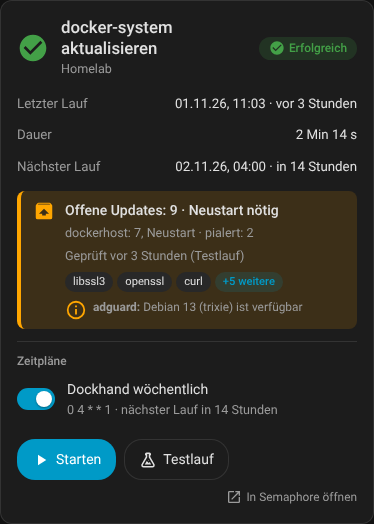
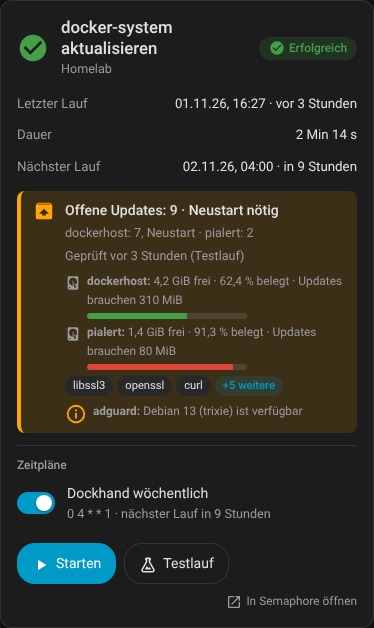
feat: Platte je Host (frei, belegt in Prozent, Bedarf der Updates) in der Template-Karte
Liest disk_free_mib, disk_required_mib und disk_used_percent aus HA_RESULT, zeigt sie je Host mit Balken.
Doku, Tests und Screenshots aktualisiert.

Claude-Session: https://claude.ai/code/session_01RxcXBPCZy8kiUCVNSxwdkB

diff --git a/custom_components/semaphore_ui/frontend/semaphore-ui-card.js b/custom_components/semaphore_ui/frontend/semaphore-ui-card.js
@@ -40,6 +40,9 @@ const TEXTS = {
     checked: "Geprüft",
     reboot_short: "Neustart",
     more_n: "+{n} weitere",
+    disk_free: "frei",
+    disk_used: "belegt",
+    disk_need: "Updates brauchen",
     less: "weniger",
     show_all: "Alle Pakete anzeigen",
     show_less: "Weniger Pakete anzeigen",
@@ -130,6 +133,9 @@ const TEXTS = {
     checked: "Checked",
     reboot_short: "reboot",
     more_n: "+{n} more",
+    disk_free: "free",
+    disk_used: "used",
+    disk_need: "updates need",
     less: "less",
     show_all: "Show all packages",
     show_less: "Show fewer packages",
@@ -330,6 +336,14 @@ const STYLE = `
   .notes { margin-top: 6px; display: grid; gap: 4px; }
   .note { display: flex; gap: 6px; align-items: flex-start; font-size: 0.85em; color: var(--secondary-text-color); overflow-wrap: anywhere; }
   .note ha-icon { --mdc-icon-size: 16px; flex: none; margin-top: 1px; }
+  .disks { margin-top: 6px; display: grid; gap: 4px; }
+  .disk { display: grid; grid-template-columns: 16px minmax(0, 1fr); column-gap: 6px; row-gap: 3px; align-items: start; font-size: 0.85em; color: var(--secondary-text-color); overflow-wrap: anywhere; }
+  .needbox .disk ha-icon { --mdc-icon-size: 16px; margin-top: 1px; color: var(--secondary-text-color); }
+  .disk .dtext { min-width: 0; }
+  .disk .bar { grid-column: 2; width: 100%; max-width: 160px; height: 6px; border-radius: 3px; background: var(--divider-color, #e0e0e0); overflow: hidden; }
+  .disk .bar i { display: block; height: 100%; background: var(--success-color, #43a047); }
+  .disk .bar.warn i { background: var(--warning-color, #ffa600); }
+  .disk .bar.crit i { background: var(--error-color, #db4437); }
   .errbox { margin-top: 12px; padding: 8px 12px; border-radius: 8px; font-size: 0.9em; overflow-wrap: anywhere;
             background: color-mix(in srgb, var(--error-color, #db4437) 12%, transparent); border-left: 4px solid var(--error-color, #db4437); }
   .errbox .meta { color: var(--secondary-text-color); margin-top: 4px; }
@@ -804,6 +818,26 @@ class SemaphoreTemplateCard extends SemaphoreBaseCard {
           .map((n) => `<div class="note"><ha-icon icon="mdi:information-outline"></ha-icon><span>${allHosts.length > 1 && n.host ? `<b>${esc(n.host)}:</b> ` : ""}${esc(n.text)}</span></div>`)
           .join("")}${notes.length > 3 ? `<div class="note"><span>${esc(T.more_n.replace("{n}", notes.length - 3))}</span></div>` : ""}</div>`
       : "";
+    // disk figures of the hosts (root file system), if the playbook reports them
+    const lang = langOf(hass);
+    const num = (n, digits = 1) => new Intl.NumberFormat(hass.locale?.language || lang, { maximumFractionDigits: digits }).format(n);
+    const size = (mib) => (mib >= 1024 ? `${num(mib / 1024)} GiB` : `${num(mib, 0)} MiB`);
+    const disks = allHosts.filter(([, h]) => ["disk_free_mib", "disk_used_percent", "disk_required_mib"].some((k) => typeof h[k] === "number"));
+    const diskHtml = disks.length
+      ? `<div class="disks">${disks
+          .slice(0, 5)
+          .map(([name, h]) => {
+            const parts = [];
+            if (typeof h.disk_free_mib === "number") parts.push(`${size(h.disk_free_mib)} ${T.disk_free}`);
+            if (typeof h.disk_used_percent === "number") parts.push(`${num(h.disk_used_percent)} % ${T.disk_used}`);
+            if (h.disk_required_mib > 0) parts.push(`${T.disk_need} ${size(h.disk_required_mib)}`);
+            const pct = typeof h.disk_used_percent === "number" ? Math.min(100, h.disk_used_percent) : null;
+            const level = pct === null ? "" : pct >= 90 ? "crit" : pct >= 80 ? "warn" : "";
+            const text = `${allHosts.length > 1 ? `${name}: ` : ""}${parts.join(" · ")}`;
+            return `<div class="disk"><ha-icon icon="mdi:harddisk"></ha-icon><span class="dtext">${allHosts.length > 1 ? `<b>${esc(name)}:</b> ` : ""}${esc(parts.join(" · "))}</span>${pct === null ? "" : `<span class="bar ${level}" role="img" aria-label="${esc(text)}"><i style="width:${pct}%"></i></span>`}</div>`;
+          })
+          .join("")}${disks.length > 5 ? `<div class="disk"><span>${esc(T.more_n.replace("{n}", disks.length - 5))}</span></div>` : ""}</div>`
+      : "";
     const names = on && Array.isArray(a.packages) ? a.packages : [];
     const open = !!this._pkgsOpen;
     // all chips are rendered; _fitPackages() folds them into one line and writes "+n more" into the button
@@ -816,7 +850,7 @@ class SemaphoreTemplateCard extends SemaphoreBaseCard {
       : "";
     return `<div class="needbox ${on ? "on" : "off"}" data-action="more-info" data-entity="${entityId}">
       <ha-icon icon="${on ? "mdi:package-up" : "mdi:check-circle-outline"}"></ha-icon>
-      <div class="t"><div class="what">${esc(a.explanation || T.action_n)}</div>${hostLine ? `<div class="meta hostline">${esc(hostLine)}</div>` : ""}${meta.length ? `<div class="meta">${meta.map(esc).join(" · ")}</div>` : ""}${pkgs}${notesHtml}</div>
+      <div class="t"><div class="what">${esc(a.explanation || T.action_n)}</div>${hostLine ? `<div class="meta hostline">${esc(hostLine)}</div>` : ""}${meta.length ? `<div class="meta">${meta.map(esc).join(" · ")}</div>` : ""}${diskHtml}${pkgs}${notesHtml}</div>
     </div>`;
   }
 

diff --git a/tests/browser/check_cards.py b/tests/browser/check_cards.py
@@ -253,8 +253,13 @@ def test_packages_one_line(page: Page) -> None:
     for w in (700, width):
         page.set_viewport_size({"width": w, "height": page.viewport_size["height"]})
         time.sleep(0.8)
-        narrow.append(pkg_state(docker))
-    check("Schmales Fenster: weiterhin eine Zeile, mehr Pakete hinter „+n weitere“", narrow[0]["rows"] == 1 and narrow[0]["overflow"] <= 1 and narrow[0]["visible"] <= narrow[1]["visible"] and (narrow[0]["clipped"] == 0 or narrow[0]["visible"] == 1), narrow)
+        state = pkg_state(docker)
+        state["card_width"] = round(docker.evaluate("el => el.getBoundingClientRect().width"))
+        narrow.append(state)
+    # die Karte kann bei anderer Fensterbreite in einer anderen Rasterspalte landen: verglichen wird die Kartenbreite
+    (a, b) = narrow
+    monotone = (a["card_width"] <= b["card_width"] and a["visible"] <= b["visible"]) or (a["card_width"] >= b["card_width"] and a["visible"] >= b["visible"])
+    check("Schmales Fenster: weiterhin eine Zeile, schmalere Karte zeigt weniger Pakete (Rest hinter „+n weitere“)", a["rows"] == 1 and a["overflow"] <= 1 and monotone and (a["clipped"] == 0 or a["visible"] == 1), narrow)
     check("Fenster wieder breit: Anzeige passt sich ohne Neuladen an", narrow[1]["visible"] == folded["visible"] and narrow[1]["more"] == folded["more"], (narrow[1], folded))
     check("Karte ohne Pakete hat keinen „+n weitere“-Knopf", tcard(page, "Host-Update").locator('[data-action="pkgs"]').count() == 0)
 
@@ -506,6 +511,27 @@ def test_needs_action_view(playwright) -> None:
     check("Nur Benötigtes: die Kacheln zählen weiter das ganze Projekt", project.locator(".stat .n").all_inner_texts() == ["1", "1", "1", "5"])
     shot(page, "00_nur_benoetigt")
     browser.close()
+
+
+def test_disk_figures(page: Page) -> None:
+    """0.4.0: Platte je Host (frei, belegt in Prozent, Bedarf der Updates) – nur für Hosts, die es melden."""
+    card = tcard(page, "docker-system")
+    disks = card.locator(".disks .disk")
+    texts = [t.strip() for t in disks.all_inner_texts()]
+    check("Platte: zwei von drei Hosts melden Werte (adguard nicht)", len(texts) == 2 and not any("adguard" in t for t in texts), texts)
+    first = texts[0] if texts else ""
+    check("Platte: dockerhost – frei, belegt, Bedarf (deutsche Zahlen)", "dockerhost" in first and "4,2 GiB frei" in first and "62,4 % belegt" in first and "Updates brauchen 310 MiB" in first, first)
+    second = texts[1] if len(texts) > 1 else ""
+    check("Platte: pialert – 1,4 GiB frei, 91,3 % belegt", "pialert" in second and "1,4 GiB frei" in second and "91,3 % belegt" in second, second)
+    bars = card.locator(".disk .bar")
+    classes = [(b.get_attribute("class") or "").replace("bar", "").strip() for b in bars.all()]
+    check("Platte: Balken – dockerhost normal, pialert (über 90 %) rot", classes == ["", "crit"], classes)
+    check("Platte: Balken hat eine Beschriftung für Screenreader", "62,4" in (bars.first.get_attribute("aria-label") or ""), bars.first.get_attribute("aria-label"))
+    box = card.bounding_box()
+    inside = card.locator(".disks").evaluate("el => { const r = el.getBoundingClientRect(); const c = el.closest('ha-card').getBoundingClientRect(); return r.left >= c.left && r.right <= c.right + 1; }")
+    check("Platte: nichts ragt aus der Karte", inside and box is not None, box)
+    quiet = tcard(page, "Host-Update").locator(".disks").count()
+    check("Platte: Template ohne Werte zeigt keinen Block", quiet == 0, quiet)
 
 
 def test_busy_schedule(page: Page) -> None:
@@ -1056,6 +1082,7 @@ def main() -> int:
             test_rendering(page)
             test_template_card_details(page)
             test_packages_one_line(page)
+            test_disk_figures(page)
             test_project_filters(page)
             test_schedules_ui(page)
             test_busy_schedule(page)

diff --git a/custom_components/semaphore_ui/report.py b/custom_components/semaphore_ui/report.py
@@ -15,6 +15,7 @@ from __future__ import annotations
 
 from datetime import UTC, datetime, tzinfo
 import json
+import math
 import re
 from typing import Any
 
@@ -48,6 +49,12 @@ HA_MARKER = "HA_RESULT"
 MAX_MARKER_LINES = 300
 MAX_PACKAGES = 50
 MAX_PACKAGE_NAME = 80
+# optional disk figures a host may report in HA_RESULT (key -> highest accepted value)
+DISK_KEYS: dict[str, float | None] = {
+    "disk_free_mib": None,
+    "disk_required_mib": None,
+    "disk_used_percent": 100.0,
+}
 MAX_NOTES = 10  # notes of all hosts together
 MAX_NOTE_LEN = 200
 
@@ -388,6 +395,22 @@ def _as_count(value: Any) -> int | None:
     return None
 
 
+def _as_number(value: Any, *, maximum: float | None = None) -> float | None:
+    """Non-negative number with one decimal (``4.2``, ``"4.2"``), otherwise ``None`` (also above ``maximum``)."""
+    if isinstance(value, bool):
+        return None
+    if isinstance(value, str):
+        try:
+            value = float(value.strip().replace(",", "."))
+        except ValueError:
+            return None
+    if not isinstance(value, (int, float)) or not math.isfinite(value) or value < 0:
+        return None
+    if maximum is not None and value > maximum:
+        return None
+    return round(float(value), 1)
+
+
 def _as_flag(value: Any) -> bool | None:
     """Boolean (also ``0/1`` and ``"true"/"no"``), otherwise ``None``."""
     if isinstance(value, bool):
@@ -481,7 +504,8 @@ def parse_ha_result(lines: list[str]) -> dict[str, Any] | None:
 
     Keys of the JSON object (all optional): ``updates`` (number of pending updates),
     ``reboot_required`` (bool), ``needed`` (bool, overrides the rule below),
-    ``packages`` (list of names), ``notes`` (a hint or a list of hints, e.g. "Debian 13
+    ``packages`` (list of names), ``disk_free_mib`` / ``disk_required_mib`` (MiB free / needed
+    by the updates) and ``disk_used_percent`` (0-100) of the host (shown only), ``notes`` (a hint or a list of hints, e.g. "Debian 13
     available"; shown only, they do not count as action), ``host`` (otherwise the host
     of the Ansible output).
     Without ``needed``, action is needed if ``updates > 0`` or ``reboot_required``.
@@ -500,6 +524,11 @@ def parse_ha_result(lines: list[str]) -> dict[str, Any] | None:
             "updates": updates,
             "reboot_required": reboot,
         }
+        # optional disk figures of the host (root file system): free, needed by the updates, used in percent
+        for key, maximum in DISK_KEYS.items():
+            number = _as_number(payload.get(key), maximum=maximum)
+            if number is not None:
+                hosts[host][key] = number
         notes = _as_notes(payload.get("notes", payload.get("note")))
         if notes:
             hosts[host]["notes"] = notes

diff --git a/tests/test_ha_result.py b/tests/test_ha_result.py
@@ -2,6 +2,7 @@
 
 from __future__ import annotations
 
+import json
 from pathlib import Path
 
 import pytest
@@ -366,3 +367,39 @@ def test_notes_show_up_in_the_push_text() -> None:
     )
     assert "Hinweis (adguard): Installiert: Debian 12" in report["text"]
     assert report["ha_result"]["notes"][0]["host"] == "adguard"
+
+
+# --------------------------------------------------------------------------- #
+# 0.4.0: disk figures of the hosts
+# --------------------------------------------------------------------------- #
+def _marker(payload: dict, host: str = "dockerhost") -> list[str]:
+    return [f"ok: [{host}] =>", f"    msg: 'HA_RESULT {json.dumps(payload)}'"]
+
+
+def test_disk_figures_are_taken_per_host() -> None:
+    lines = _marker({"updates": 2, "disk_free_mib": 4300.55, "disk_required_mib": "310,2", "disk_used_percent": 62.4}) + _marker(
+        {"updates": 0}, "adguard"
+    )
+    result = parse_ha_result(lines)
+    assert result["hosts"]["dockerhost"]["disk_free_mib"] == 4300.6  # one decimal
+    assert result["hosts"]["dockerhost"]["disk_required_mib"] == 310.2  # text with a decimal comma
+    assert result["hosts"]["dockerhost"]["disk_used_percent"] == 62.4
+    assert not [k for k in result["hosts"]["adguard"] if k.startswith("disk_")]  # a host without figures has none
+
+
+@pytest.mark.parametrize("bad", [-1, True, "viel", None, float("inf"), [1], {"a": 1}])
+def test_nonsense_disk_figures_are_ignored(bad) -> None:
+    result = parse_ha_result(_marker({"updates": 1, "disk_free_mib": bad, "disk_required_mib": bad, "disk_used_percent": bad}))
+    assert result["hosts"]["dockerhost"]["updates"] == 1
+    assert not [k for k in result["hosts"]["dockerhost"] if k.startswith("disk_")]
+
+
+def test_a_percentage_above_100_is_ignored() -> None:
+    result = parse_ha_result(_marker({"updates": 1, "disk_used_percent": 140, "disk_free_mib": 10}))
+    assert "disk_used_percent" not in result["hosts"]["dockerhost"]
+    assert result["hosts"]["dockerhost"]["disk_free_mib"] == 10
+
+
+def test_disk_figures_do_not_change_whether_action_is_needed() -> None:
+    result = parse_ha_result(_marker({"updates": 0, "disk_free_mib": 5, "disk_used_percent": 99}))
+    assert result["needed"] is False

diff --git a/tests/browser/fake_server.py b/tests/browser/fake_server.py
@@ -32,9 +32,9 @@ OK_OUT = "PLAY RECAP\ndockerhost : ok=5 changed=1 unreachable=0 failed=0"
 # Testlauf mit drei Hosts (HA_RESULT): dockerhost 3 Updates + Neustart, pialert 2 Updates, adguard nichts, aber ein Hinweis
 PENDING_OUT = """TASK [Ergebnis fuer Home Assistant melden] *************************************
 ok: [dockerhost] =>
-    msg: 'HA_RESULT {"updates": 7, "reboot_required": true, "packages": ["libssl3", "openssl", "curl", "docker-ce", "docker-ce-cli", "containerd.io", "linux-image-6.12.48+deb13-amd64"]}'
+    msg: 'HA_RESULT {"updates": 7, "reboot_required": true, "packages": ["libssl3", "openssl", "curl", "docker-ce", "docker-ce-cli", "containerd.io", "linux-image-6.12.48+deb13-amd64"], "disk_free_mib": 4300.5, "disk_required_mib": 310.2, "disk_used_percent": 62.4}'
 ok: [pialert] =>
-    msg: 'HA_RESULT {"updates": 2, "reboot_required": false, "packages": ["curl", "bash"]}'
+    msg: 'HA_RESULT {"updates": 2, "reboot_required": false, "packages": ["curl", "bash"], "disk_free_mib": 1400, "disk_required_mib": 80, "disk_used_percent": 91.3}'
 ok: [adguard] =>
     msg: 'HA_RESULT {"updates": 0, "reboot_required": false, "notes": "Debian 13 (trixie) ist verfügbar"}'
 PLAY RECAP *********************************************************************

diff --git a/README.md b/README.md
@@ -141,7 +141,7 @@ ihn gestartet hat, auch ein Zeitplan in Semaphore) und legt daraus pro Template 
 
 | Entität | Inhalt |
 |---|---|
-| **Handlungsbedarf** (`binary_sensor`) | an = Updates offen oder Neustart nötig; aus = nichts zu tun; *unbekannt* = der letzte Lauf hat nichts gemeldet (z. B. fehlgeschlagen). Attribute: `updates`, `reboot_required`, `explanation`, `hosts` (je Host: `updates`, `reboot_required`, `needed`, `notes`), `packages`, `notes`, `checked`, `checked_local`, `dry_run`, `task_id`, `url` |
+| **Handlungsbedarf** (`binary_sensor`) | an = Updates offen oder Neustart nötig; aus = nichts zu tun; *unbekannt* = der letzte Lauf hat nichts gemeldet (z. B. fehlgeschlagen). Attribute: `updates`, `reboot_required`, `explanation`, `hosts` (je Host: `updates`, `reboot_required`, `needed`, `notes`, `disk_free_mib`, `disk_required_mib`, `disk_used_percent`), `packages`, `notes`, `checked`, `checked_local`, `dry_run`, `task_id`, `url` |
 | **Offene Updates** (`sensor`) | Zahl der offenen Updates (alle Hosts zusammen) |
 | **Templates mit Handlungsbedarf** (Projekt-Sensor) | Anzahl; Attribut `templates` = Namen |
 
@@ -152,6 +152,10 @@ eine Zeile „Offene Updates: 3 · Neustart nötig“.
 **Schlüssel des JSON-Objekts** (alle optional): `updates` (Zahl), `reboot_required` (true/false), `packages` (Liste von Namen,
 nur Anzeige, max. 50; die Karte zeigt sie in einer Zeile mit „+n weitere“), `host` (sonst der Host aus der Ansible-Ausgabe), `needed` (true/false – überschreibt die Regel),
 `notes` (Text oder Liste von Texten, siehe unten; auch `note` wird gelesen).
+**Platte des Hosts** (optional, nur Anzeige): `disk_free_mib` (freier Platz auf `/` in MiB), `disk_required_mib` (Platzbedarf der Updates in MiB)
+und `disk_used_percent` (belegt, 0–100). Die Template-Karte zeigt sie je Host als „4,2 GiB frei · 62,4 % belegt · Updates brauchen 310 MiB“
+mit einem Balken (ab 80 % orange, ab 90 % rot); Hosts ohne diese Werte bekommen keine Zeile. Sie ändern nichts am Handlungsbedarf.
+Ungültige Werte (negativ, kein Zahlenwert, Prozent über 100) werden einzeln ignoriert. Das mitgelieferte `playbooks/update-linux.yml` meldet sie.
 Unbekannte Schlüssel werden ignoriert. Ohne `needed` gilt: **Handlungsbedarf, wenn `updates` > 0 oder `reboot_required` wahr ist.** Bei mehreren Hosts zählt die
 letzte Zeile je Host; die Zahlen werden addiert, ein Host mit Bedarf genügt.
 
@@ -626,6 +630,7 @@ pytest
 * `tests/test_filter.py` – Option „Templates in Home Assistant anzeigen“: Geräte/Entitäten/Schalter abgewählter Templates verschwinden
   und kommen zurück, neue Templates erscheinen weiter, mindestens eines bleibt, andere Optionen verlieren die Auswahl nicht,
   ohne Verbindung bleibt sie erhalten, gleiche Namen werden unterscheidbar, Diagnose.
+* `tests/test_ha_result.py` enthält auch die Platten-Werte je Host (Rundung, Dezimalkomma, Unsinn wird ignoriert, Prozent über 100).
 * `tests/test_repairs.py` – Reparaturen: abgelehntes Token (sofort, Beheben-Dialog mit Prüfung, Token ohne Zugriff, entfernter Eintrag),
   Ausfall erst nach 10 Minuten (auch über Setup-Wiederholungen), kurzer Ausfall ohne Hinweis, Projekt weg (403/404), Hinweise
   verschwinden bei Erholung und beim Entfernen, Texte (Platzhalter in de/en).

diff --git a/CHANGELOG.md b/CHANGELOG.md
@@ -1,5 +1,15 @@
 # Changelog
 
+## 0.4.0 (alpha) – Platte je Host in der Template-Karte
+- **Template-Karte:** Meldet ein Host im `HA_RESULT` die Platte (`disk_free_mib`, `disk_required_mib`, `disk_used_percent`, wie vom
+  mitgelieferten `playbooks/update-linux.yml`), zeigt die Box „Offene Updates“ bzw. „Nichts zu tun“ je Host eine Zeile
+  „4,2 GiB frei · 62,4 % belegt · Updates brauchen 310 MiB“ mit Balken (grün, ab 80 % orange, ab 90 % rot). Hosts ohne Werte bekommen keine Zeile;
+  bei mehreren Hosts steht der Name davor. Zahlen im Format der Sprache (de/en).
+- **Parser:** Die drei Werte stehen je Host im Attribut `hosts` des Handlungsbedarf-Sensors. Ungültige Werte (negativ, Text, Prozent über 100) werden einzeln
+  ignoriert; sie beeinflussen den Handlungsbedarf nicht.
+- Browser-Test: Beispieldaten mit Platte für zwei von drei Hosts; der Test zur Fensterbreite vergleicht jetzt die Kartenbreite (die Karte kann in eine andere Rasterspalte rutschen).
+- Tests: 267 pytest-Tests, Browser-Test mit 177 Prüfungen.
+
 ## 0.3.0 (alpha) – Token-Pflege
 - **Ablauf des API-Tokens wird angezeigt:** neuer Sensor „API-Token gültig bis“ (Diagnose, Projekt-Gerät) mit Attributen
   (`token_found`, `token_name`, `created`, `never_expires`, `auto_renew`, `renew_days_before`, `stored_login`, `last_renewed`, `renew_error`).
